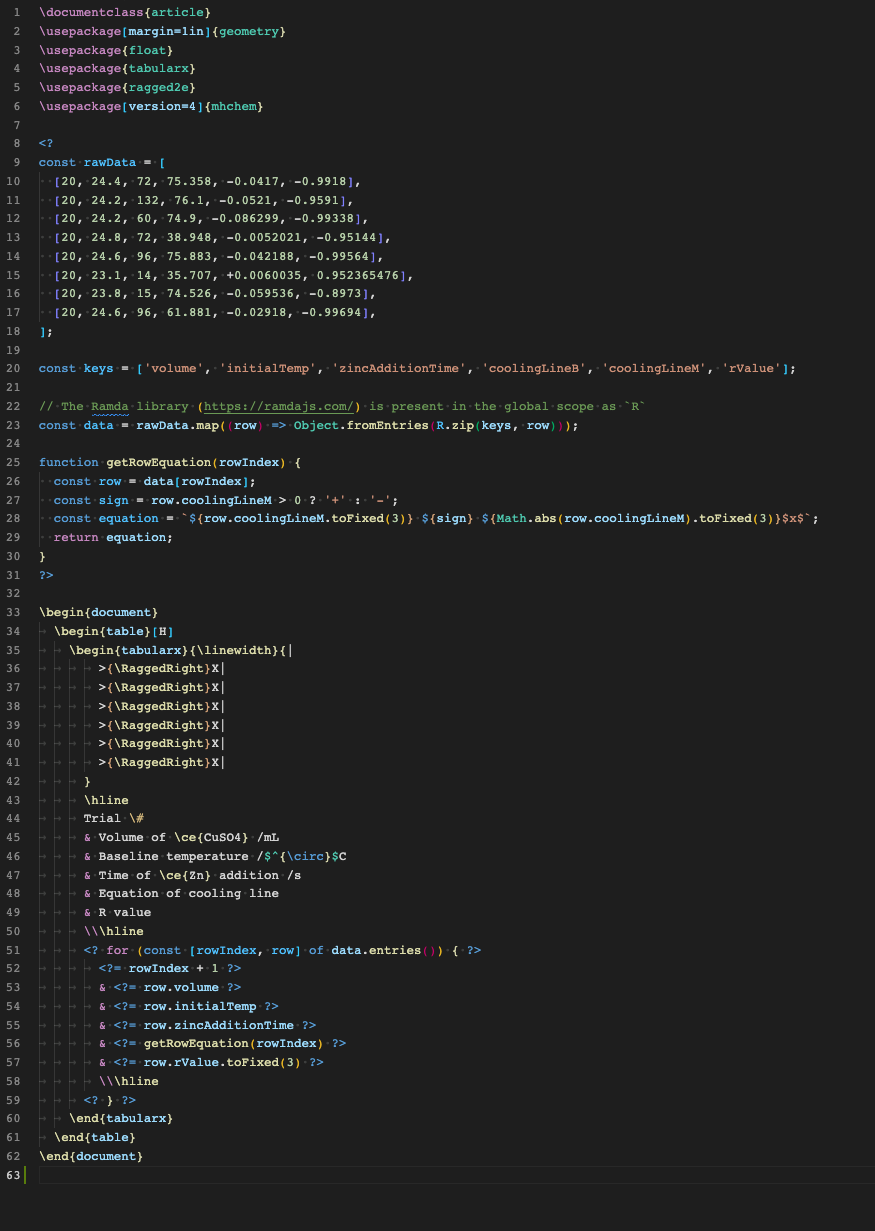
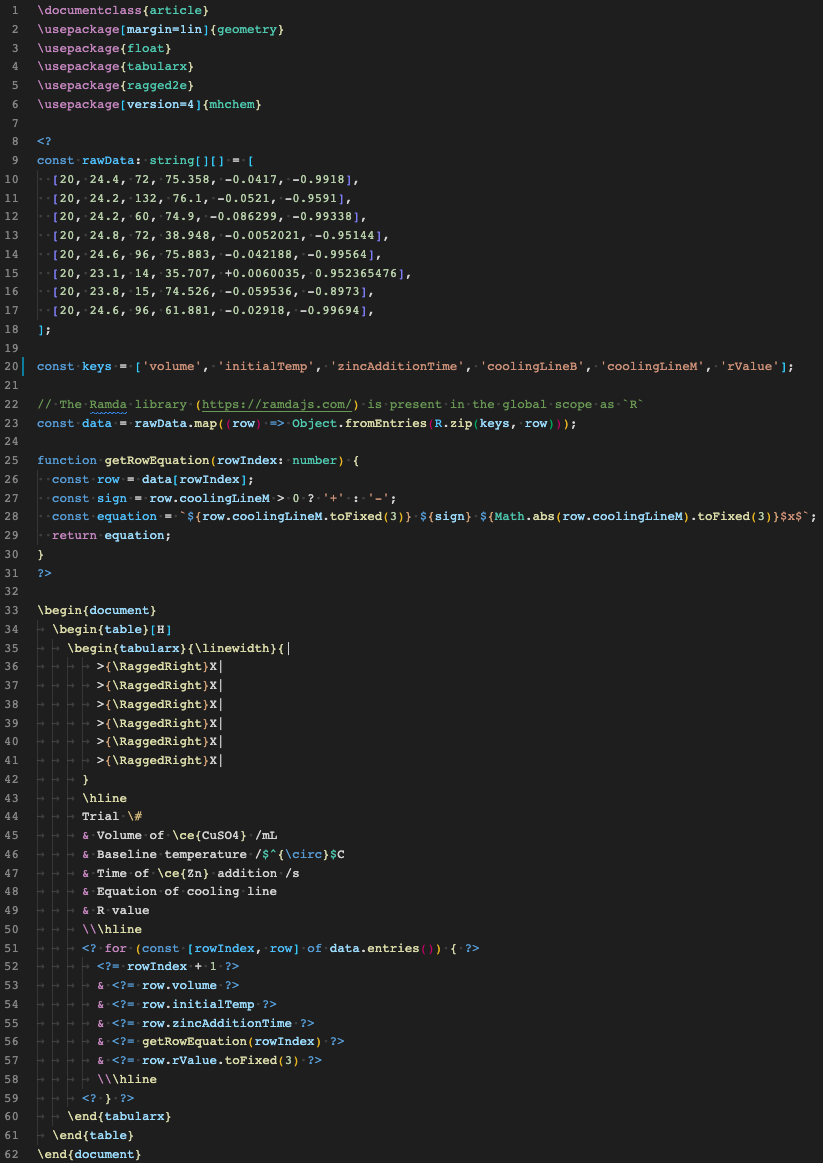
docs: update screenshot

diff --git a/packages/compiler/test/fixtures/chem.tex b/packages/compiler/test/fixtures/chem.tex
@@ -17,7 +17,7 @@ const rawData: string[][] = [
   [20, 24.6, 96, 61.881, -0.02918, -0.99694],
 ];
 
-const keys: string[] = ['volume', 'initialTemp', 'zincAdditionTime', 'coolingLineB', 'coolingLineM', 'rValue'];
+const keys = ['volume', 'initialTemp', 'zincAdditionTime', 'coolingLineB', 'coolingLineM', 'rValue'];
 
 // The Ramda library (https://ramdajs.com/) is present in the global scope as `R`
 const data = rawData.map((row) => Object.fromEntries(R.zip(keys, row)));
